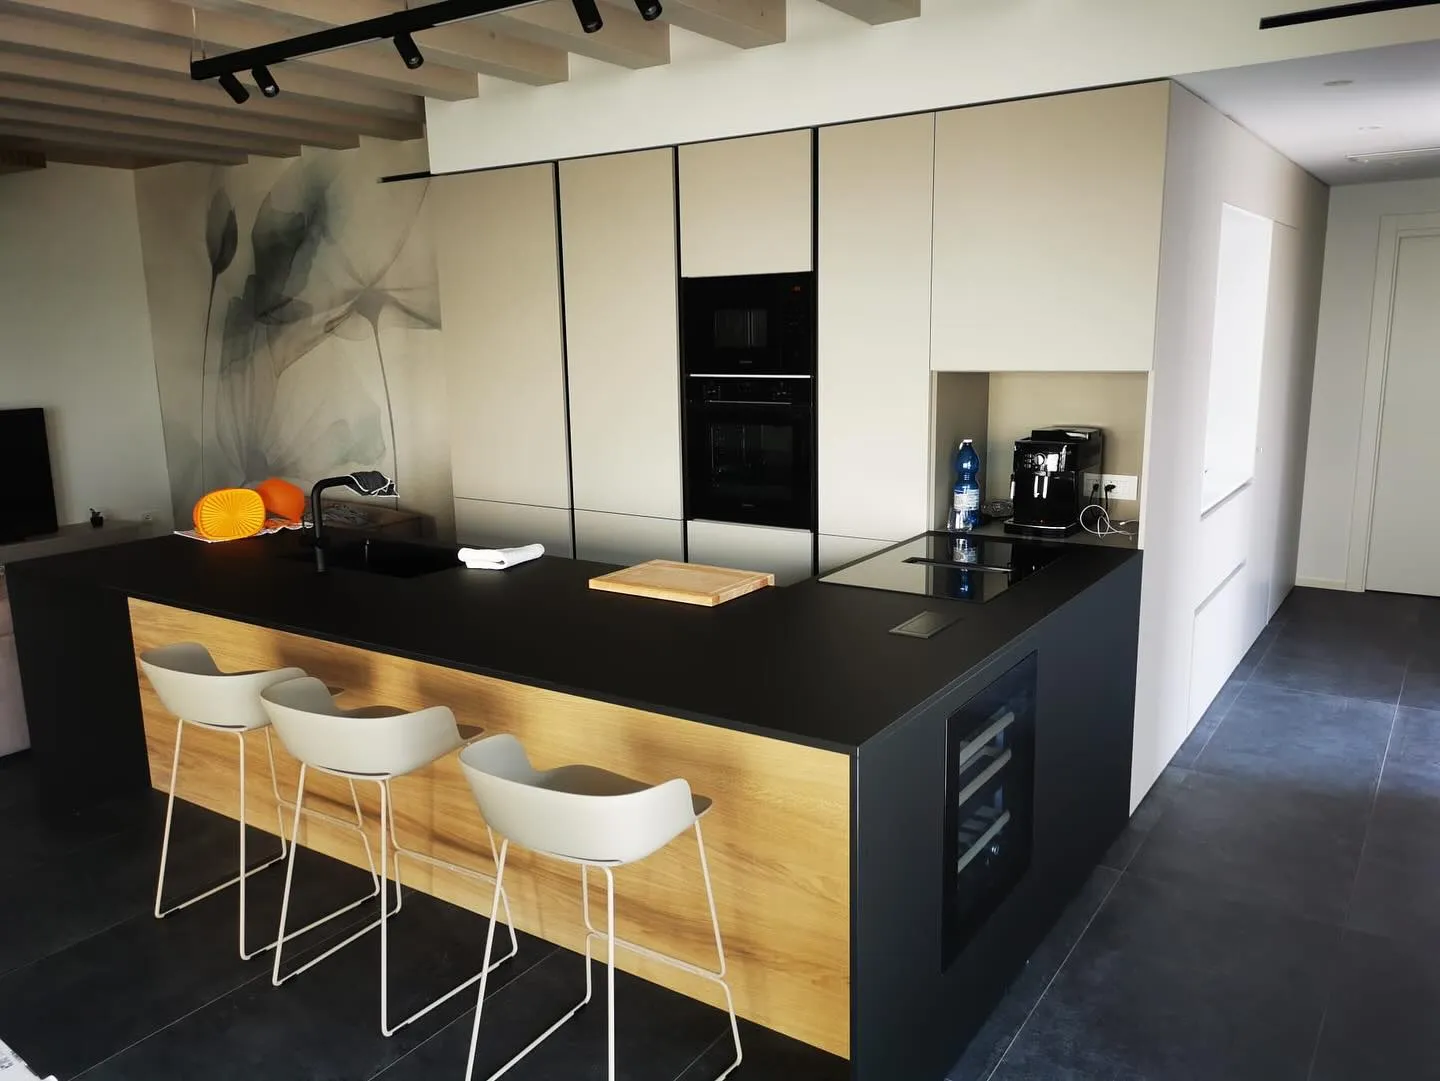
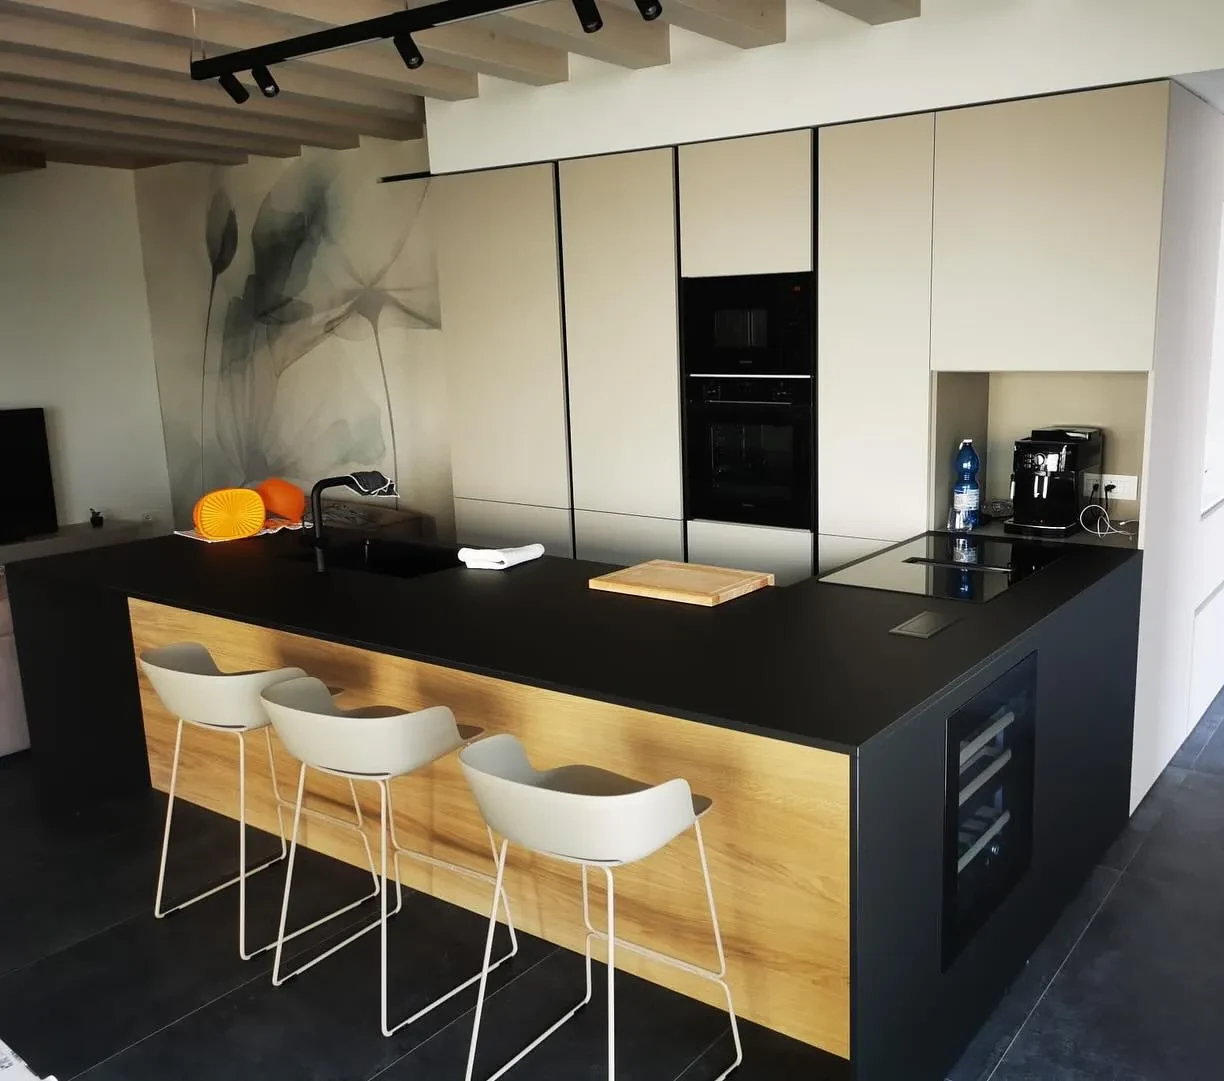
Hero: sfondo reale (facciata -> insegna) con zoom 20% e crossfade via GSAP

diff --git a/js/main.js b/js/main.js
@@ -70,9 +70,11 @@
     });
   }
 
-  /* ---------- Hero: pin + zoom scrub sullo sfondo segnaposto ---------- */
+  /* ---------- Hero: pin + zoom scrub sulla foto esterna, poi crossfade
+     sulla foto dell'insegna ---------- */
   var heroPin = document.querySelector('.hero-pin');
-  var heroBg = document.querySelector('.hero-bg');
+  var heroBg1 = document.getElementById('hero-bg-1');
+  var heroBg2 = document.getElementById('hero-bg-2');
   var heroScroll = document.querySelector('.hero-scroll');
   /* l'intro (heroIntro, sotto) porta .hero-scroll a opacity:1 con uno stile
      inline: da quel momento in poi solo GSAP può farlo sparire allo scroll,
@@ -82,9 +84,13 @@
     gsap.to(heroScroll, { opacity: progress > 0.02 ? 0 : 1, duration: .3, overwrite: 'auto' });
   }
   if (heroPin && hasG && window.ScrollTrigger) {
-    if (heroBg) gsap.set(heroBg, { scale: 1, transformOrigin: '50% 45%' });
+    /* origine dello zoom verso l'insegna "BI.GI. ARREDAMENTI" sulla facciata,
+       che sta verso il centro-basso-destra della foto (non in basso a
+       sinistra: l'insegna e la porta d'ingresso sono li'). */
+    if (heroBg1) gsap.set(heroBg1, { scale: 1, transformOrigin: '68% 58%' });
+    if (heroBg2) gsap.set(heroBg2, { opacity: 0 });
 
-    if (!reduceMotion && heroBg) {
+    if (!reduceMotion && heroBg1) {
       gsap.timeline({
         scrollTrigger: {
           trigger: heroPin,
@@ -96,8 +102,11 @@
             updateScrollHint(self.progress);
           }
         }
-      }).to(heroBg, { scale: 2.15, ease: 'none', duration: 1 }, 0);
+      })
+        .to(heroBg1, { scale: 1.2, ease: 'none', duration: .62 }, 0)
+        .to(heroBg2, { opacity: 1, ease: 'none', duration: .38 }, .62);
     } else {
+      if (heroBg2) gsap.set(heroBg2, { opacity: reduceMotion ? 0 : 0 });
       ScrollTrigger.create({
         trigger: heroPin,
         start: 'top top',

diff --git a/css/style.css b/css/style.css
@@ -250,16 +250,33 @@ body.nav-open .nav-toggle span:nth-child(3) { transform: translateY(-7.5px) rota
 .hero-bg {
   position: absolute;
   inset: -6%;
+  overflow: hidden;
+  background: #1b1815;
+}
+.hero-bg-layer {
+  position: absolute;
+  inset: 0;
+  background-size: cover;
+  background-repeat: no-repeat;
+  will-change: transform, opacity;
+}
+.hero-bg-layer--1 { background-position: 68% 55%; z-index: 1; }
+.hero-bg-layer--2 { background-position: center 30%; z-index: 2; }
+.hero-bg::before {
+  content: '';
+  position: absolute;
+  inset: 0;
+  z-index: 3;
   background:
-    radial-gradient(120% 130% at 26% 18%, rgba(207, 168, 118, .30), transparent 58%),
-    radial-gradient(110% 120% at 78% 88%, rgba(169, 120, 74, .40), transparent 62%),
-    linear-gradient(155deg, #241f1a 0%, #1b1815 46%, #12100e 100%);
-  will-change: transform;
+    radial-gradient(120% 130% at 26% 18%, rgba(207, 168, 118, .22), transparent 58%),
+    radial-gradient(110% 120% at 78% 88%, rgba(169, 120, 74, .30), transparent 62%),
+    linear-gradient(155deg, rgba(36, 31, 26, .78) 0%, rgba(27, 24, 21, .62) 46%, rgba(18, 16, 14, .8) 100%);
 }
 .hero-bg::after {
   content: '';
   position: absolute;
   inset: 0;
+  z-index: 4;
   background-image: repeating-linear-gradient(115deg, rgba(243, 239, 231, .05) 0, rgba(243, 239, 231, .05) 1px, transparent 1px, transparent 64px);
 }
 .hero-inner {

diff --git a/index.html b/index.html
@@ -59,8 +59,10 @@
     <!-- ============ HERO (pin + scrub zoom su sfondo segnaposto) ============ -->
     <div class="hero-pin" id="top">
       <section class="hero">
-        <!-- SEGNAPOSTO: sostituire con foto esterno showroom -->
-        <div class="hero-bg" aria-hidden="true"></div>
+        <div class="hero-bg" aria-hidden="true">
+          <div class="hero-bg-layer hero-bg-layer--1" id="hero-bg-1" style="background-image:url(img/hero-facciata.webp)"></div>
+          <div class="hero-bg-layer hero-bg-layer--2" id="hero-bg-2" style="background-image:url(img/hero-insegna.webp)"></div>
+        </div>
         <div class="hero-inner">
           <p class="hero-kicker">Falegnameria artigianale &middot; Cartigliano (VI)</p>
           <h1 class="hero-title">
